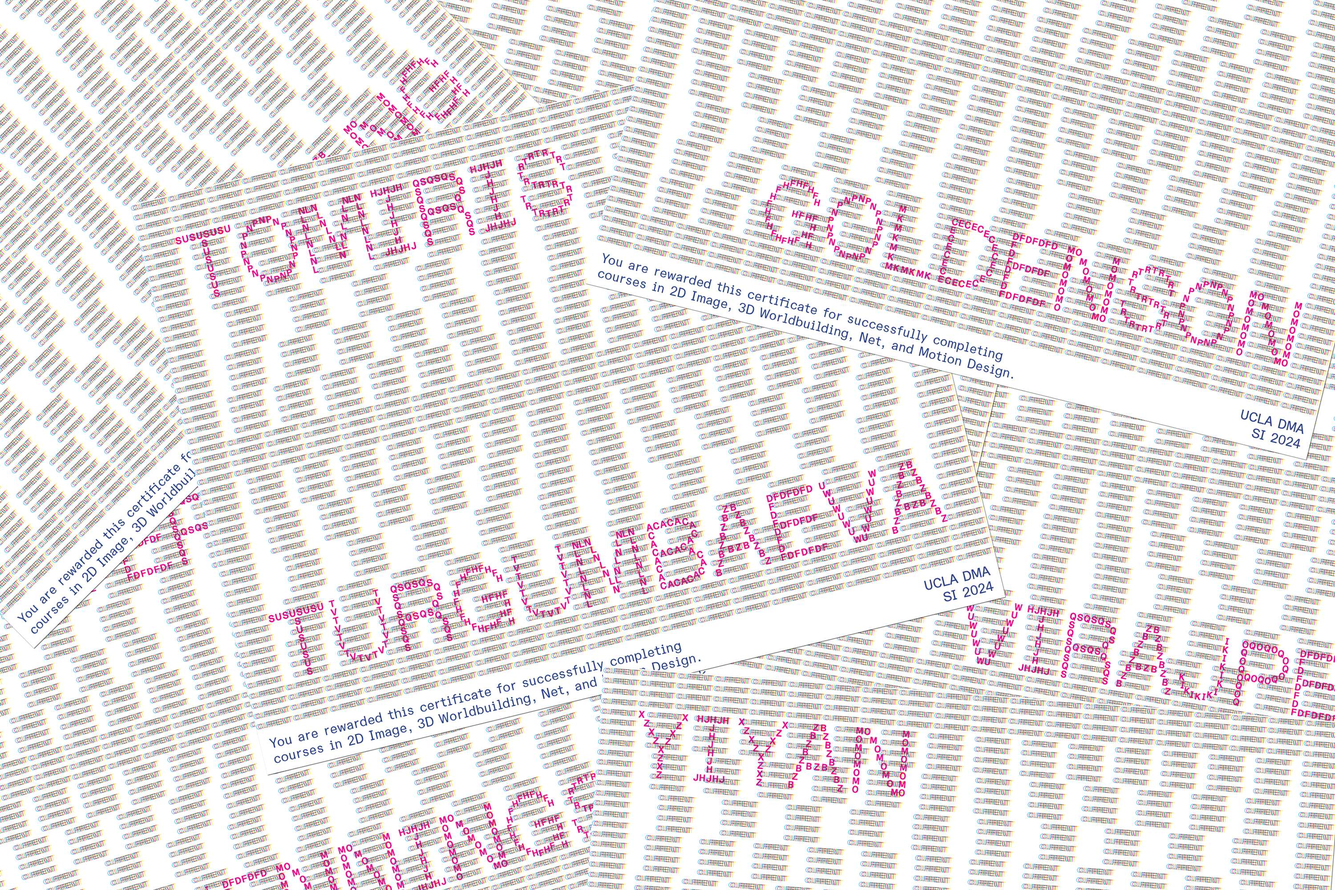
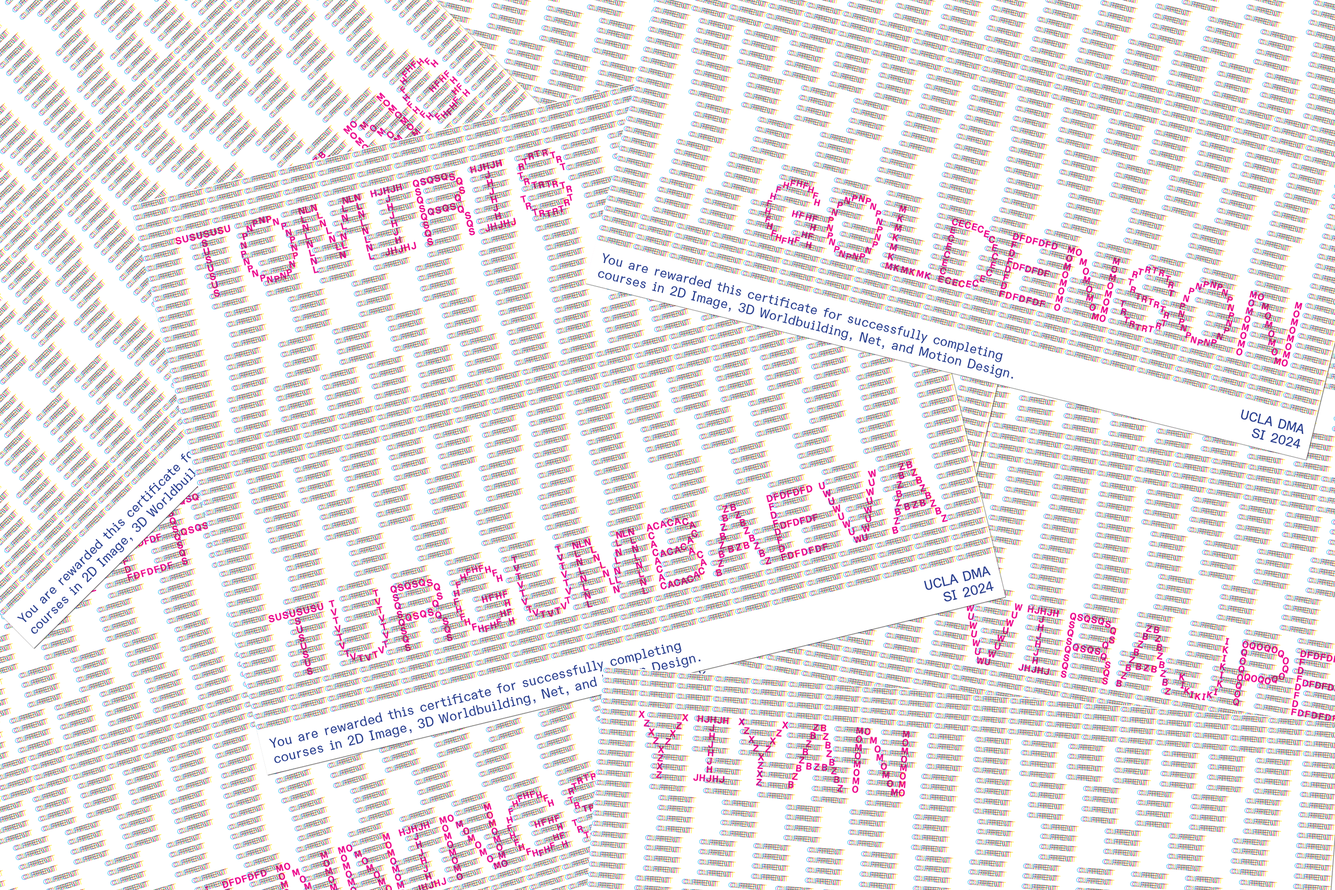
poster + certificate dmasi24

diff --git a/index.html b/index.html
@@ -46,7 +46,7 @@
     <img class="lazy" data-src="media/UCLADMASI/DMASI23/DMASI23_Slides.gif" alt="">
     <img class="lazy" data-src="media/UCLADMASI/DMASI23/DMASI23_EDA.jpg" alt="">
     <img class="lazy" data-src="media/UCLADMASI/DMASI24/DMASI24_Typeface_inverted.gif" alt="">
-    <img class="lazy" data-src="media/UCLADMASI/DMASI24/DMASI24_Poster_Crop_2.jpg" alt="">
+    <img class="lazy" data-src="media/UCLADMASI/DMASI24/DMASI24_Poster.jpg" alt="">
     <img class="lazy" data-src="media/UCLADMASI/DMASI24/DMASI24_Certificates.png" alt="">
   </figure>
 
